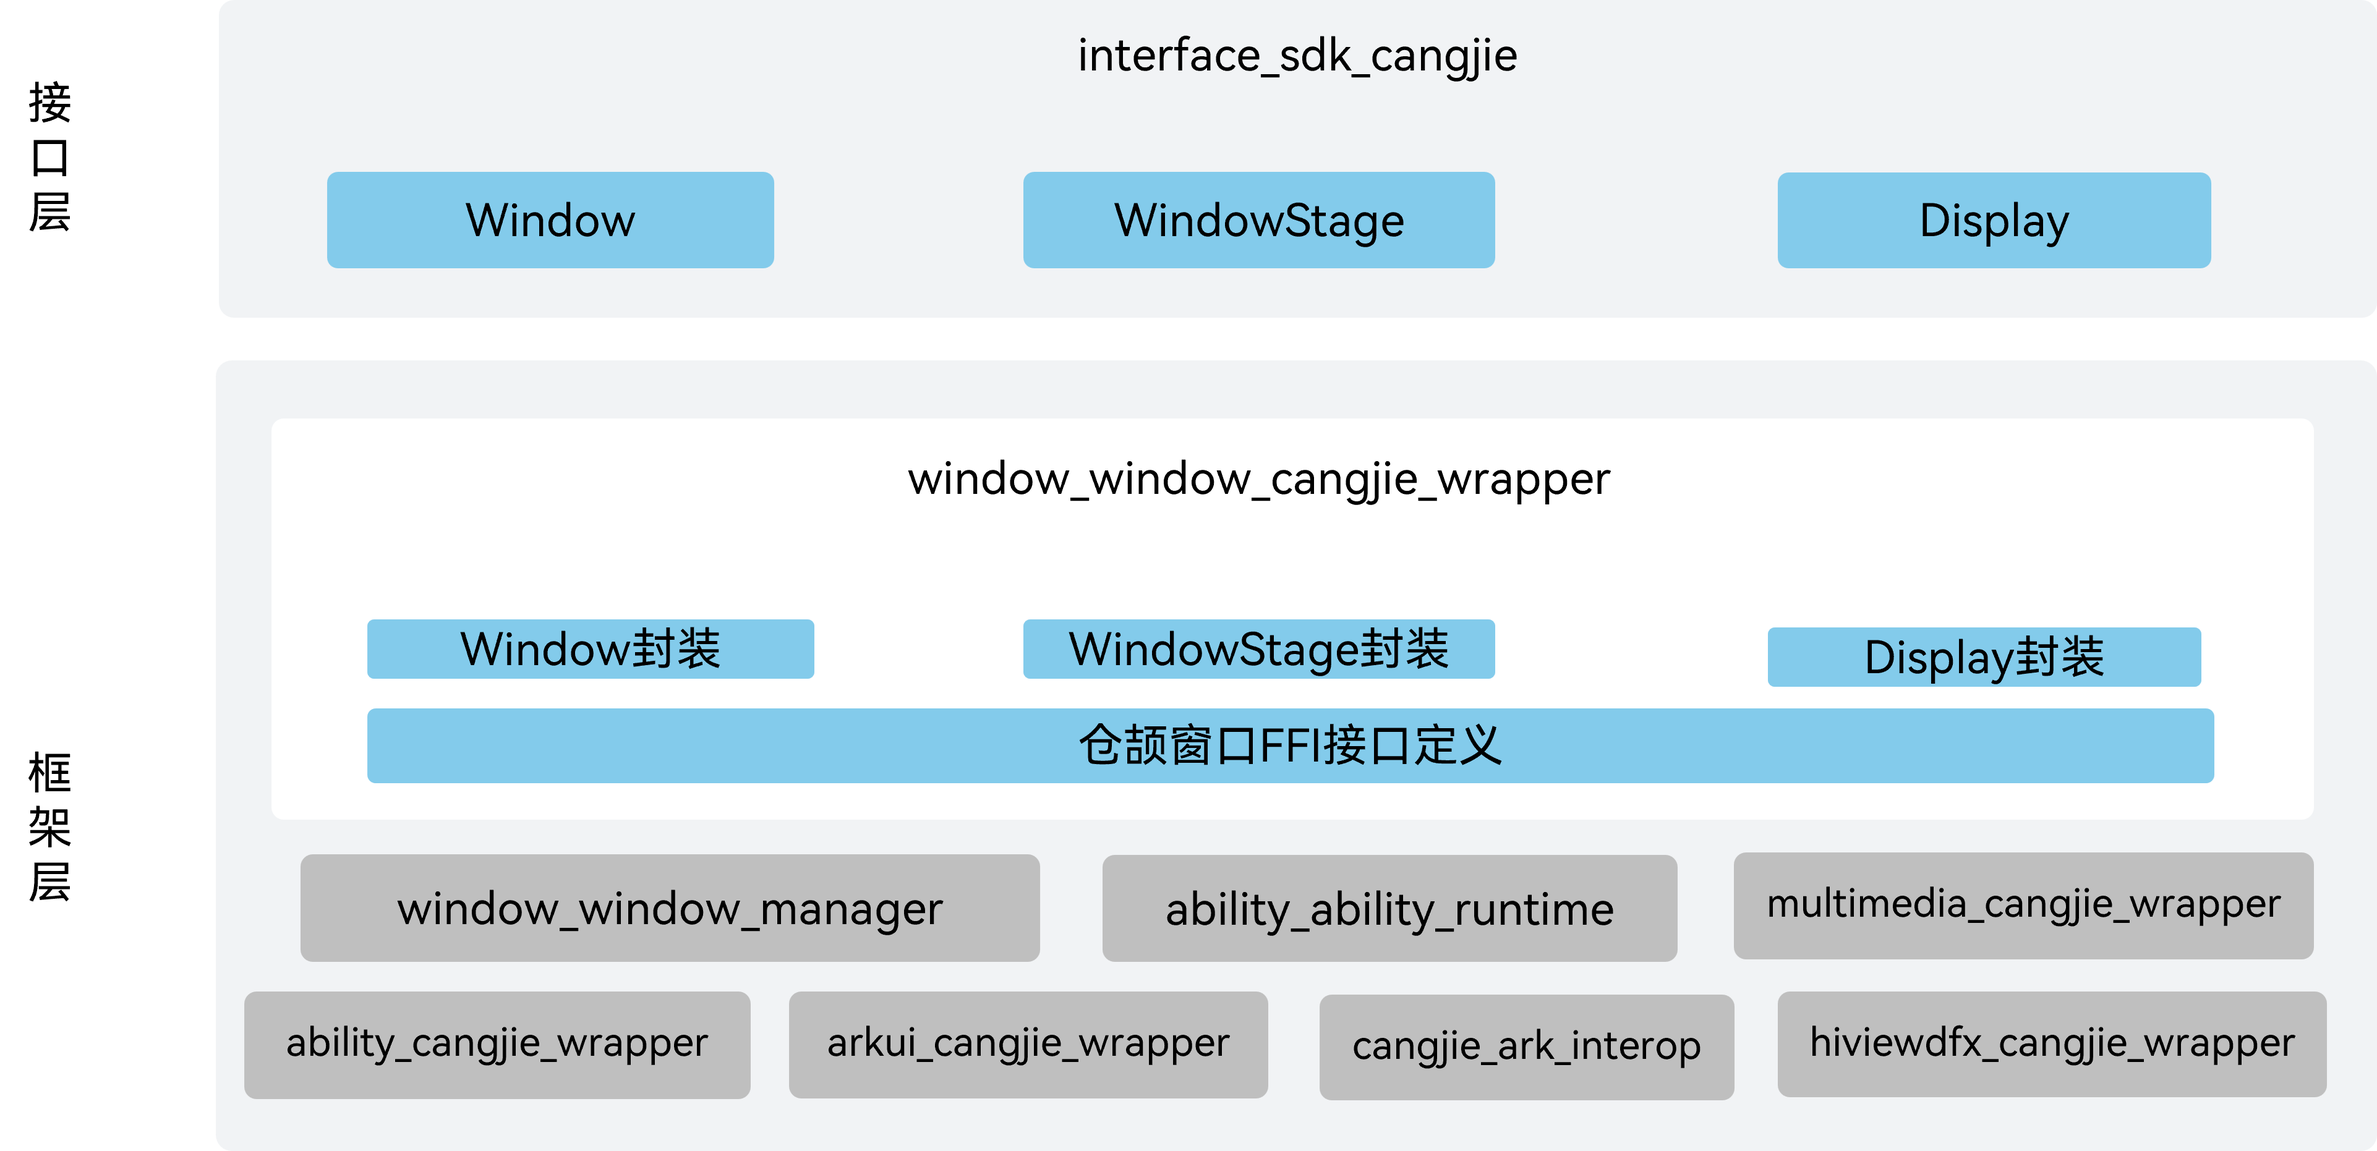
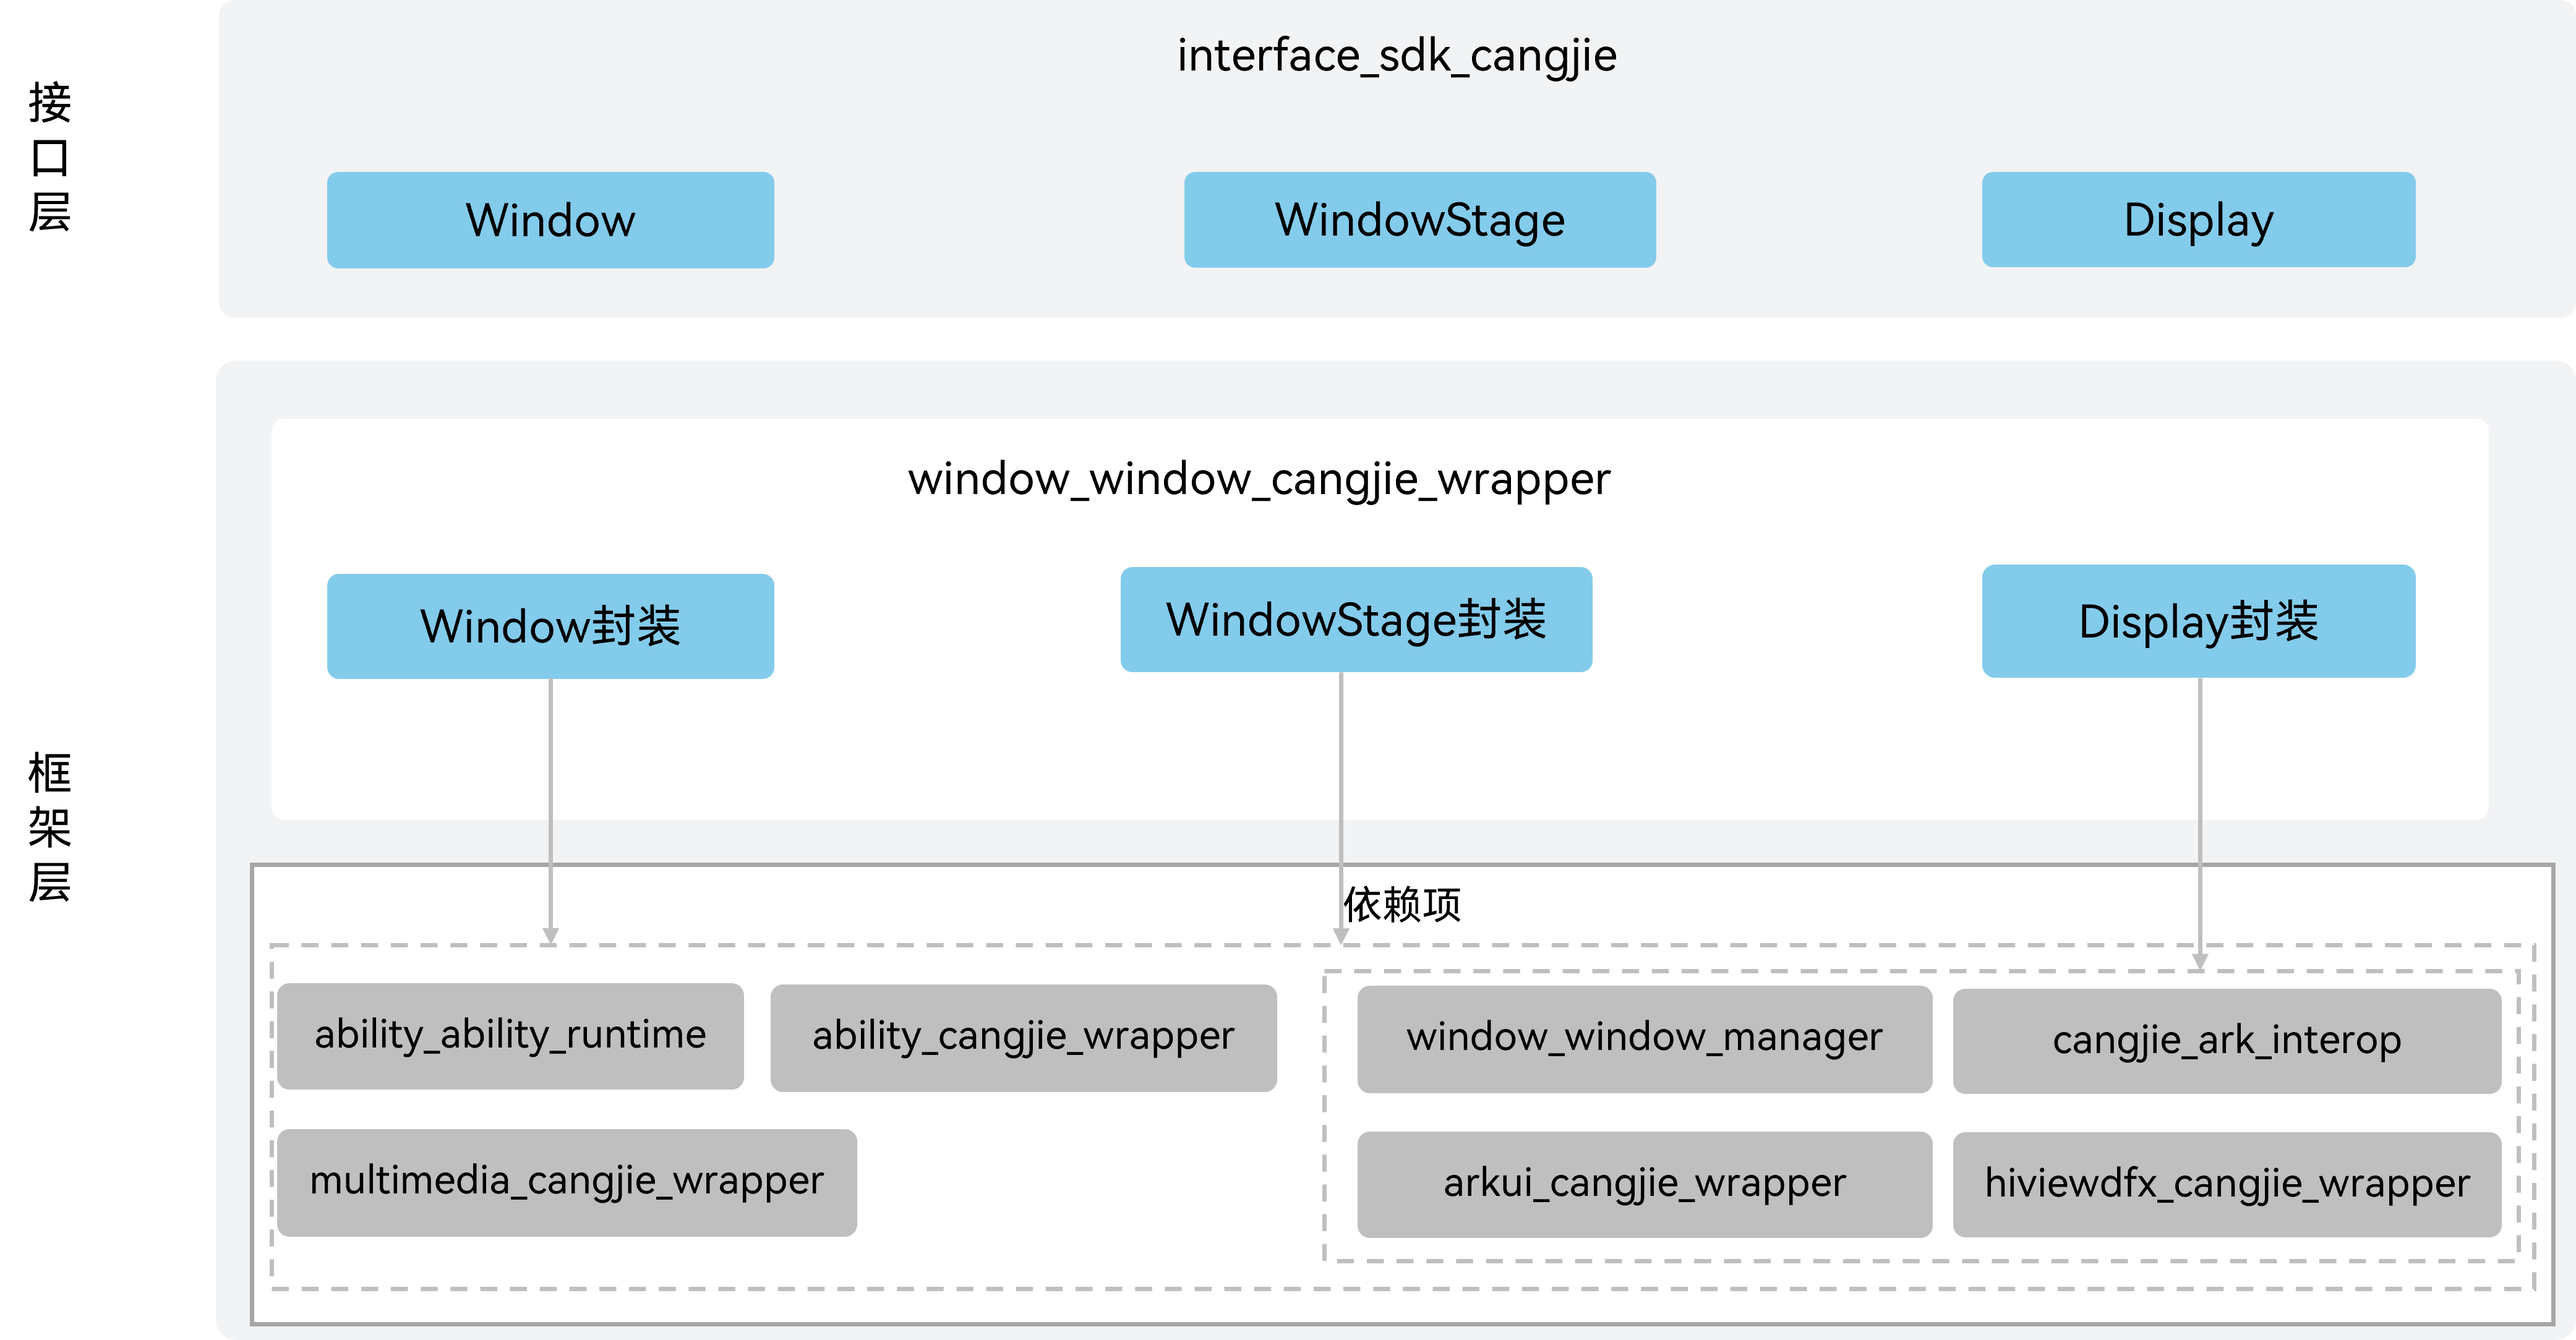
fix deps

diff --git a/README.md b/README.md
@@ -29,8 +29,6 @@ Framework Layer: Based on the underlying window service and display device manag
 
 - Display Wrapper: Implemented in Cangjie to encapsulate screen property management capabilities, interfacing with the window subsystem via Cangjie's C language interoperation.
 
-- Cangjie Window FFI Interface Definition: Defines the C language interoperation interfaces in Cangjie, enabling the integration of the Window Wrapper, WindowStage Wrapper, and Display Wrapper with the window subsystem.
-
 Dependency Component Introduction in the Architecture:
 
 - window_window_manager: The encapsulation of Cangjie interfaces relies on the window services and display device services provided by the Window Management.

diff --git a/README_zh.md b/README_zh.md
@@ -21,7 +21,6 @@
 - Window封装：仓颉封装实现窗口实例，通过仓颉C语言互操作对接到窗口子系统。
 - WindowStage封装：仓颉封装实现窗口管理器，通过仓颉C语言互操作对接到窗口子系统。
 - Display封装：仓颉封装实现屏幕属性管理能力，通过仓颉C语言互操作对接到窗口子系统。
-- 仓颉窗口FFI接口定义：负责定义C语言互操作仓颉接口，用于实现Window封装、WindowStage封装、Display封装和窗口子系统的对接。
 
 架构图中依赖部件引入说明：
 
